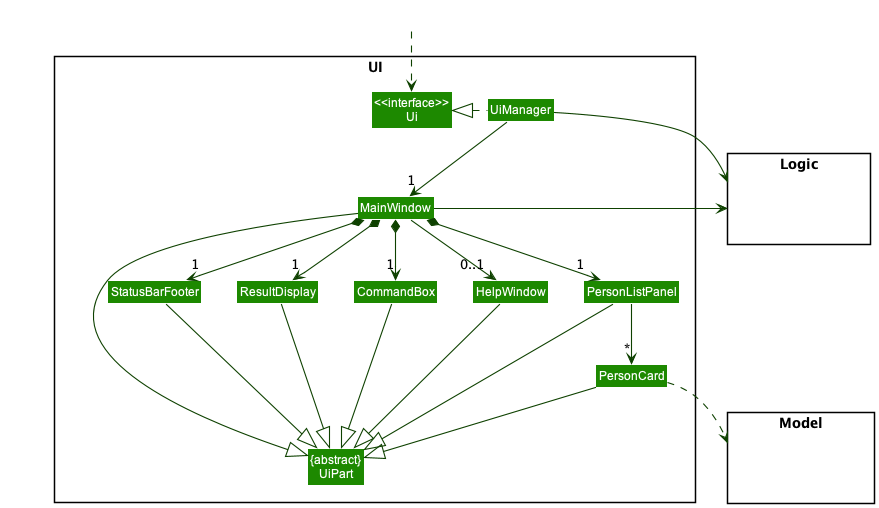
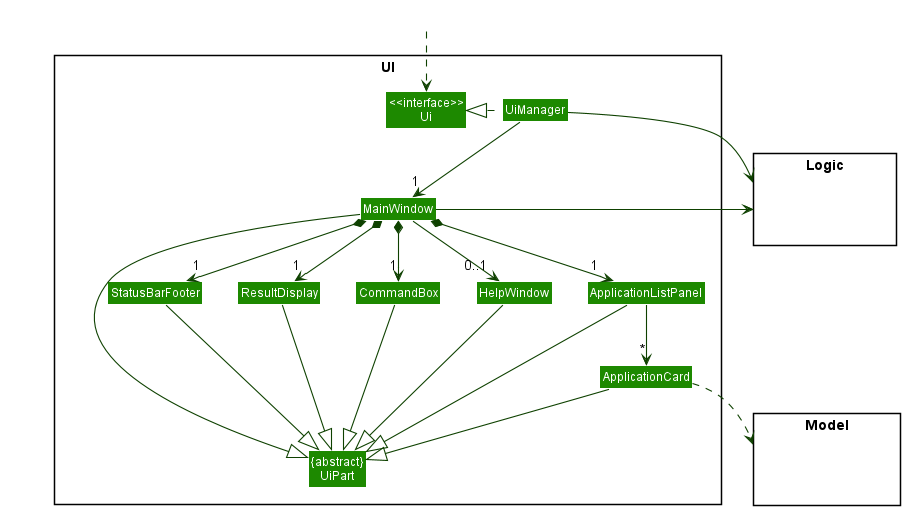
Update DG UI component

diff --git a/docs/DeveloperGuide.md b/docs/DeveloperGuide.md
@@ -45,6 +45,13 @@ bugs and raising them as issues to our team repository.
 [Go To TOC](#table-of-contents)
 
 --------------------------------------------------------------------------------------------------------------------
+### Glossary
+
+* **Mainstream OS**: Windows, Linux, Unix, OS-X
+
+[Go To TOC](#table-of-contents)
+
+--------------------------------------------------------------------------------------------------------------------
 
 ## **Setting up, getting started**
 
@@ -110,7 +117,7 @@ The **API** of this component is specified in [`Ui.java`](https://github.com/se-
 
 ![Structure of the UI Component](images/UiClassDiagram.png)
 
-The UI consists of a `MainWindow` that is made up of parts e.g.`CommandBox`, `ResultDisplay`, `PersonListPanel`, `StatusBarFooter` etc. All these, including the `MainWindow`, inherit from the abstract `UiPart` class which captures the commonalities between classes that represent parts of the visible GUI.
+The UI consists of a `MainWindow` that is made up of parts e.g.`CommandBox`, `ResultDisplay`, `ApplicationListPanel`, `StatusBarFooter` etc. All these, including the `MainWindow`, inherit from the abstract `UiPart` class which captures the commonalities between classes that represent parts of the visible GUI.
 
 The `UI` component uses the JavaFx UI framework. The layout of these UI parts are defined in matching `.fxml` files that are in the `src/main/resources/view` folder. For example, the layout of the [`MainWindow`](https://github.com/se-edu/addressbook-level3/tree/master/src/main/java/seedu/address/ui/MainWindow.java) is specified in [`MainWindow.fxml`](https://github.com/se-edu/addressbook-level3/tree/master/src/main/resources/view/MainWindow.fxml)
 
@@ -119,7 +126,7 @@ The `UI` component,
 * executes user commands using the `Logic` component.
 * listens for changes to `Model` data so that the UI can be updated with the modified data.
 * keeps a reference to the `Logic` component, because the `UI` relies on the `Logic` to execute commands.
-* depends on some classes in the `Model` component, as it displays `Person` object residing in the `Model`.
+* depends on some classes in the `Model` component, as it displays `Application` object residing in the `Model`.
 
 [Go To TOC](#table-of-contents)
 
@@ -419,20 +426,20 @@ Step 3. The user executes `reminder` manually which will create a new `ReminderC
 
 --------------------------------------------------------------------------------------------------------------------
 
-### \[Proposed\] Find/filter feature
+### Find/filter feature
 
 **Proposed Implementation**
 
-The proposed reminder mechanism would be similar to the implementation of the existing `find` command. It would be facilitated by the existing command but with more `Predicate` parameters to find the applications based on different fields such as: name, phone, email, tags.
+The proposed reminder mechanism would be similar to the implementation of the existing `find` command. It would be facilitated by the existing command but with more `Predicate` parameters to find the applications based on different fields such as: name, job title and tags.
 
 The usage of the `find` command will be facilitated by using a newly implemented Predicate subclass inheriting from `Predicate<Application>` to update the application list displayed.
 
 Classes to be implemented are as follows:
 
-* `PhoneContainsKeywordsPredicate` — Extends `Predicate<Application>` class and filters the application list based on the `Application` whose `Phone` contains the numbers typed in user input. 
-* `EmailContainsKeywordsPredicate` — Extends `Predicate<Application>` class and filters the application list based on the `Application` whose `Email` contains the numbers typed in user input.
-* `ApplicationStatustagContainsKeywordsPredicate` — Extends `Predicate<Application>` class and filters the application list based on the `Application` whose `ApplicationStatustag` contains the numbers typed in user input.
-* `PrioritytagContainsKeywordsPredicate` — Extends `Predicate<Application>` class and filters the application list based on the `Application` whose `Prioritytag` contains the numbers typed in user input.
+* `PhoneContainsKeywordsPredicate` — Extends `Predicate<Application>` class and filters the application list based on the `Application` whose `Phone` contains the numbers typed in user input.
+* `JobTitleContainsKeywordsPredicate` — Extends `Predicate<Application>` class and filters the application list based on the `Application` whose `JobTitle` contains the keywords typed in user input.
+* `TagContainsKeywordsPredicate` — Extends `Predicate<Application>` class and filters the application list based on the `Application` whose `Tag` or `PriorityTag` or `ApplicationStatusTag` contains the keywords typed in user input, depending on the input format.
+
 
 
 Given below is an example usage scenario and how the find command behaves at each step.
@@ -444,6 +451,13 @@ Step 2. The user uses the find command to find applications with the `HIGH` prio
 Step 3. The user sees all and only the applications that have the `HIGH` priority tag.  
 
 #### Design considerations:
+**Aspect: What filters (fields) that the users can find:**
+
+* **Alternative 1 (current choice):** Users can only find using the application name, job title as well as tags (`PriorityTag` and `ApplicationStatusTag` as well). 
+    * Pros: Fit well with the current UI implementation.
+    * Cons: -
+
+* **Alternative 2:**
 
 **Aspect: How the contents of the find command will be displayed:**
 
@@ -589,7 +603,6 @@ Priorities: High (must have) - `* * *`, Medium (nice to have) - `* *`, Low (unli
 | `*`      | user     | Learn what is the skillset and/or knowledge expected of a CS intern | I can plan my learning to be a capable intern                                  |
 | `*`      | user     | maintain a journal of my internship                                 | Users who are curious can read and get an idea of what the internship is like  |
 
-*{More to be added}*
 
 [Go To TOC](#table-of-contents)
 
@@ -663,11 +676,7 @@ Priorities: High (must have) - `* * *`, Medium (nice to have) - `* *`, Low (unli
 2.  Should be able to hold up to 1000 internship applications without a noticeable sluggishness in performance for typical usage.
 3.  A user with above average typing speed for regular English text (i.e. not code, not system admin commands) should be able to accomplish most of the tasks faster using commands than using the mouse.
 
-### Glossary
 
-* **Mainstream OS**: Windows, Linux, Unix, OS-X
-
-[Go To TOC](#table-of-contents)
 
 --------------------------------------------------------------------------------------------------------------------
 
